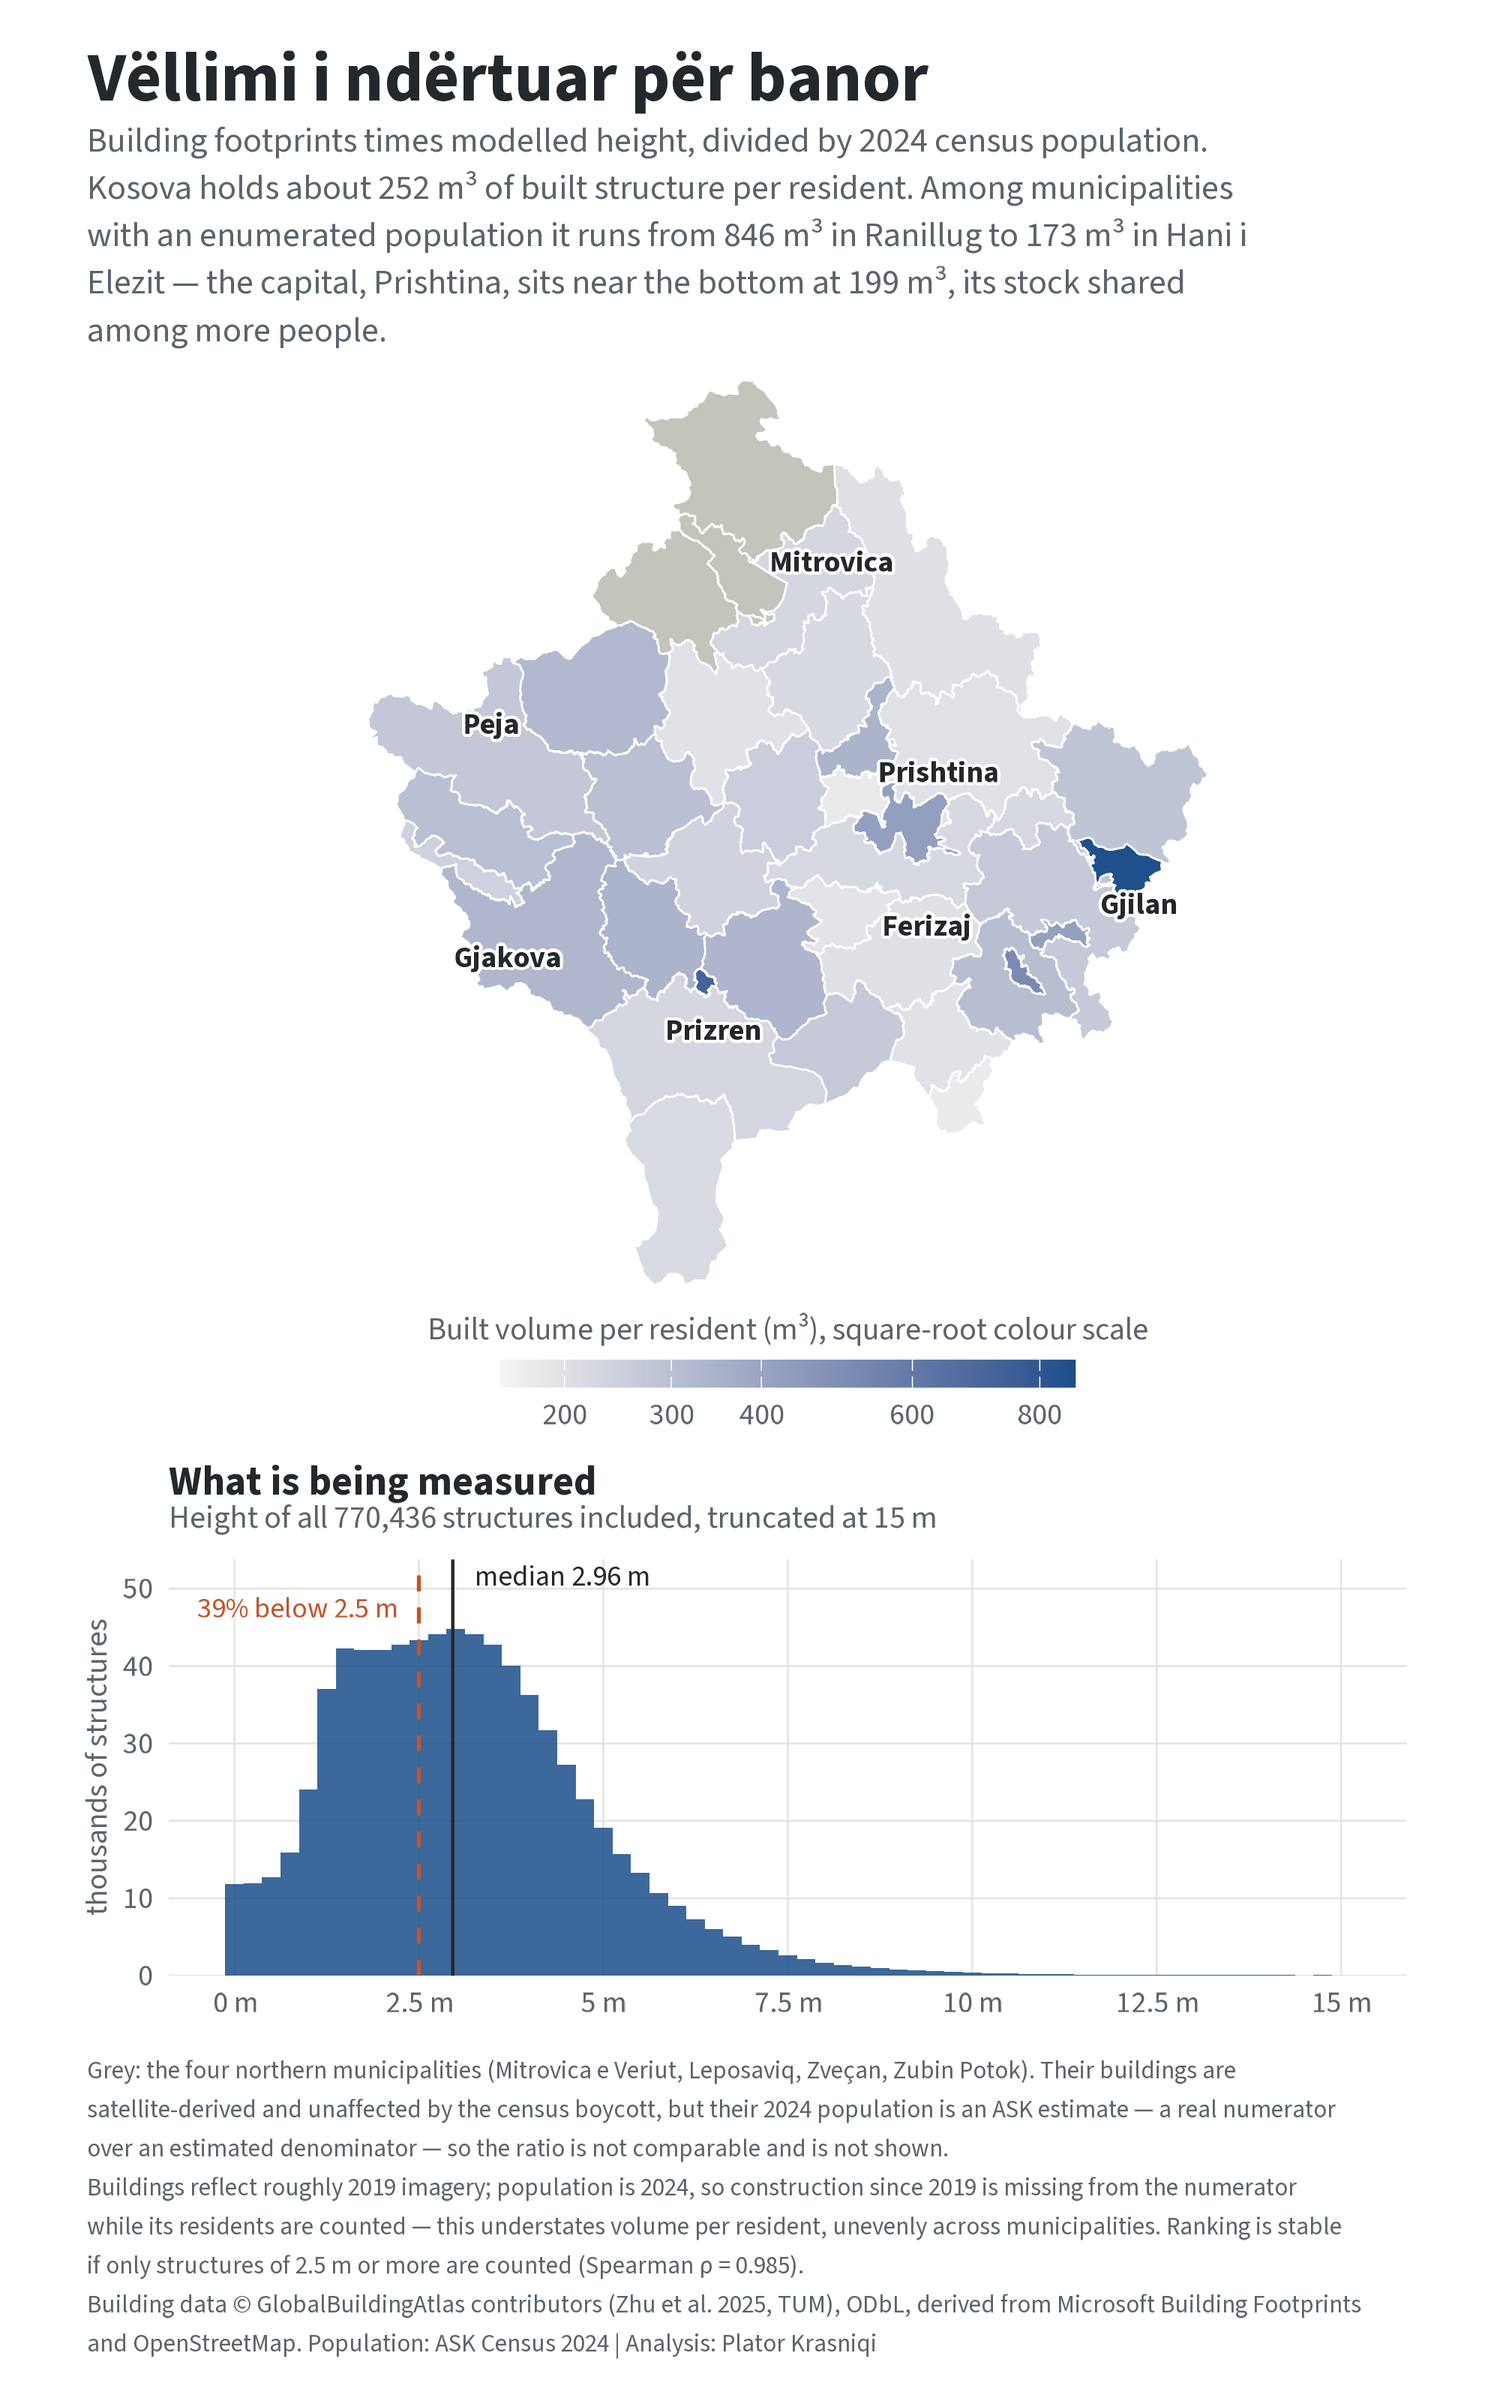
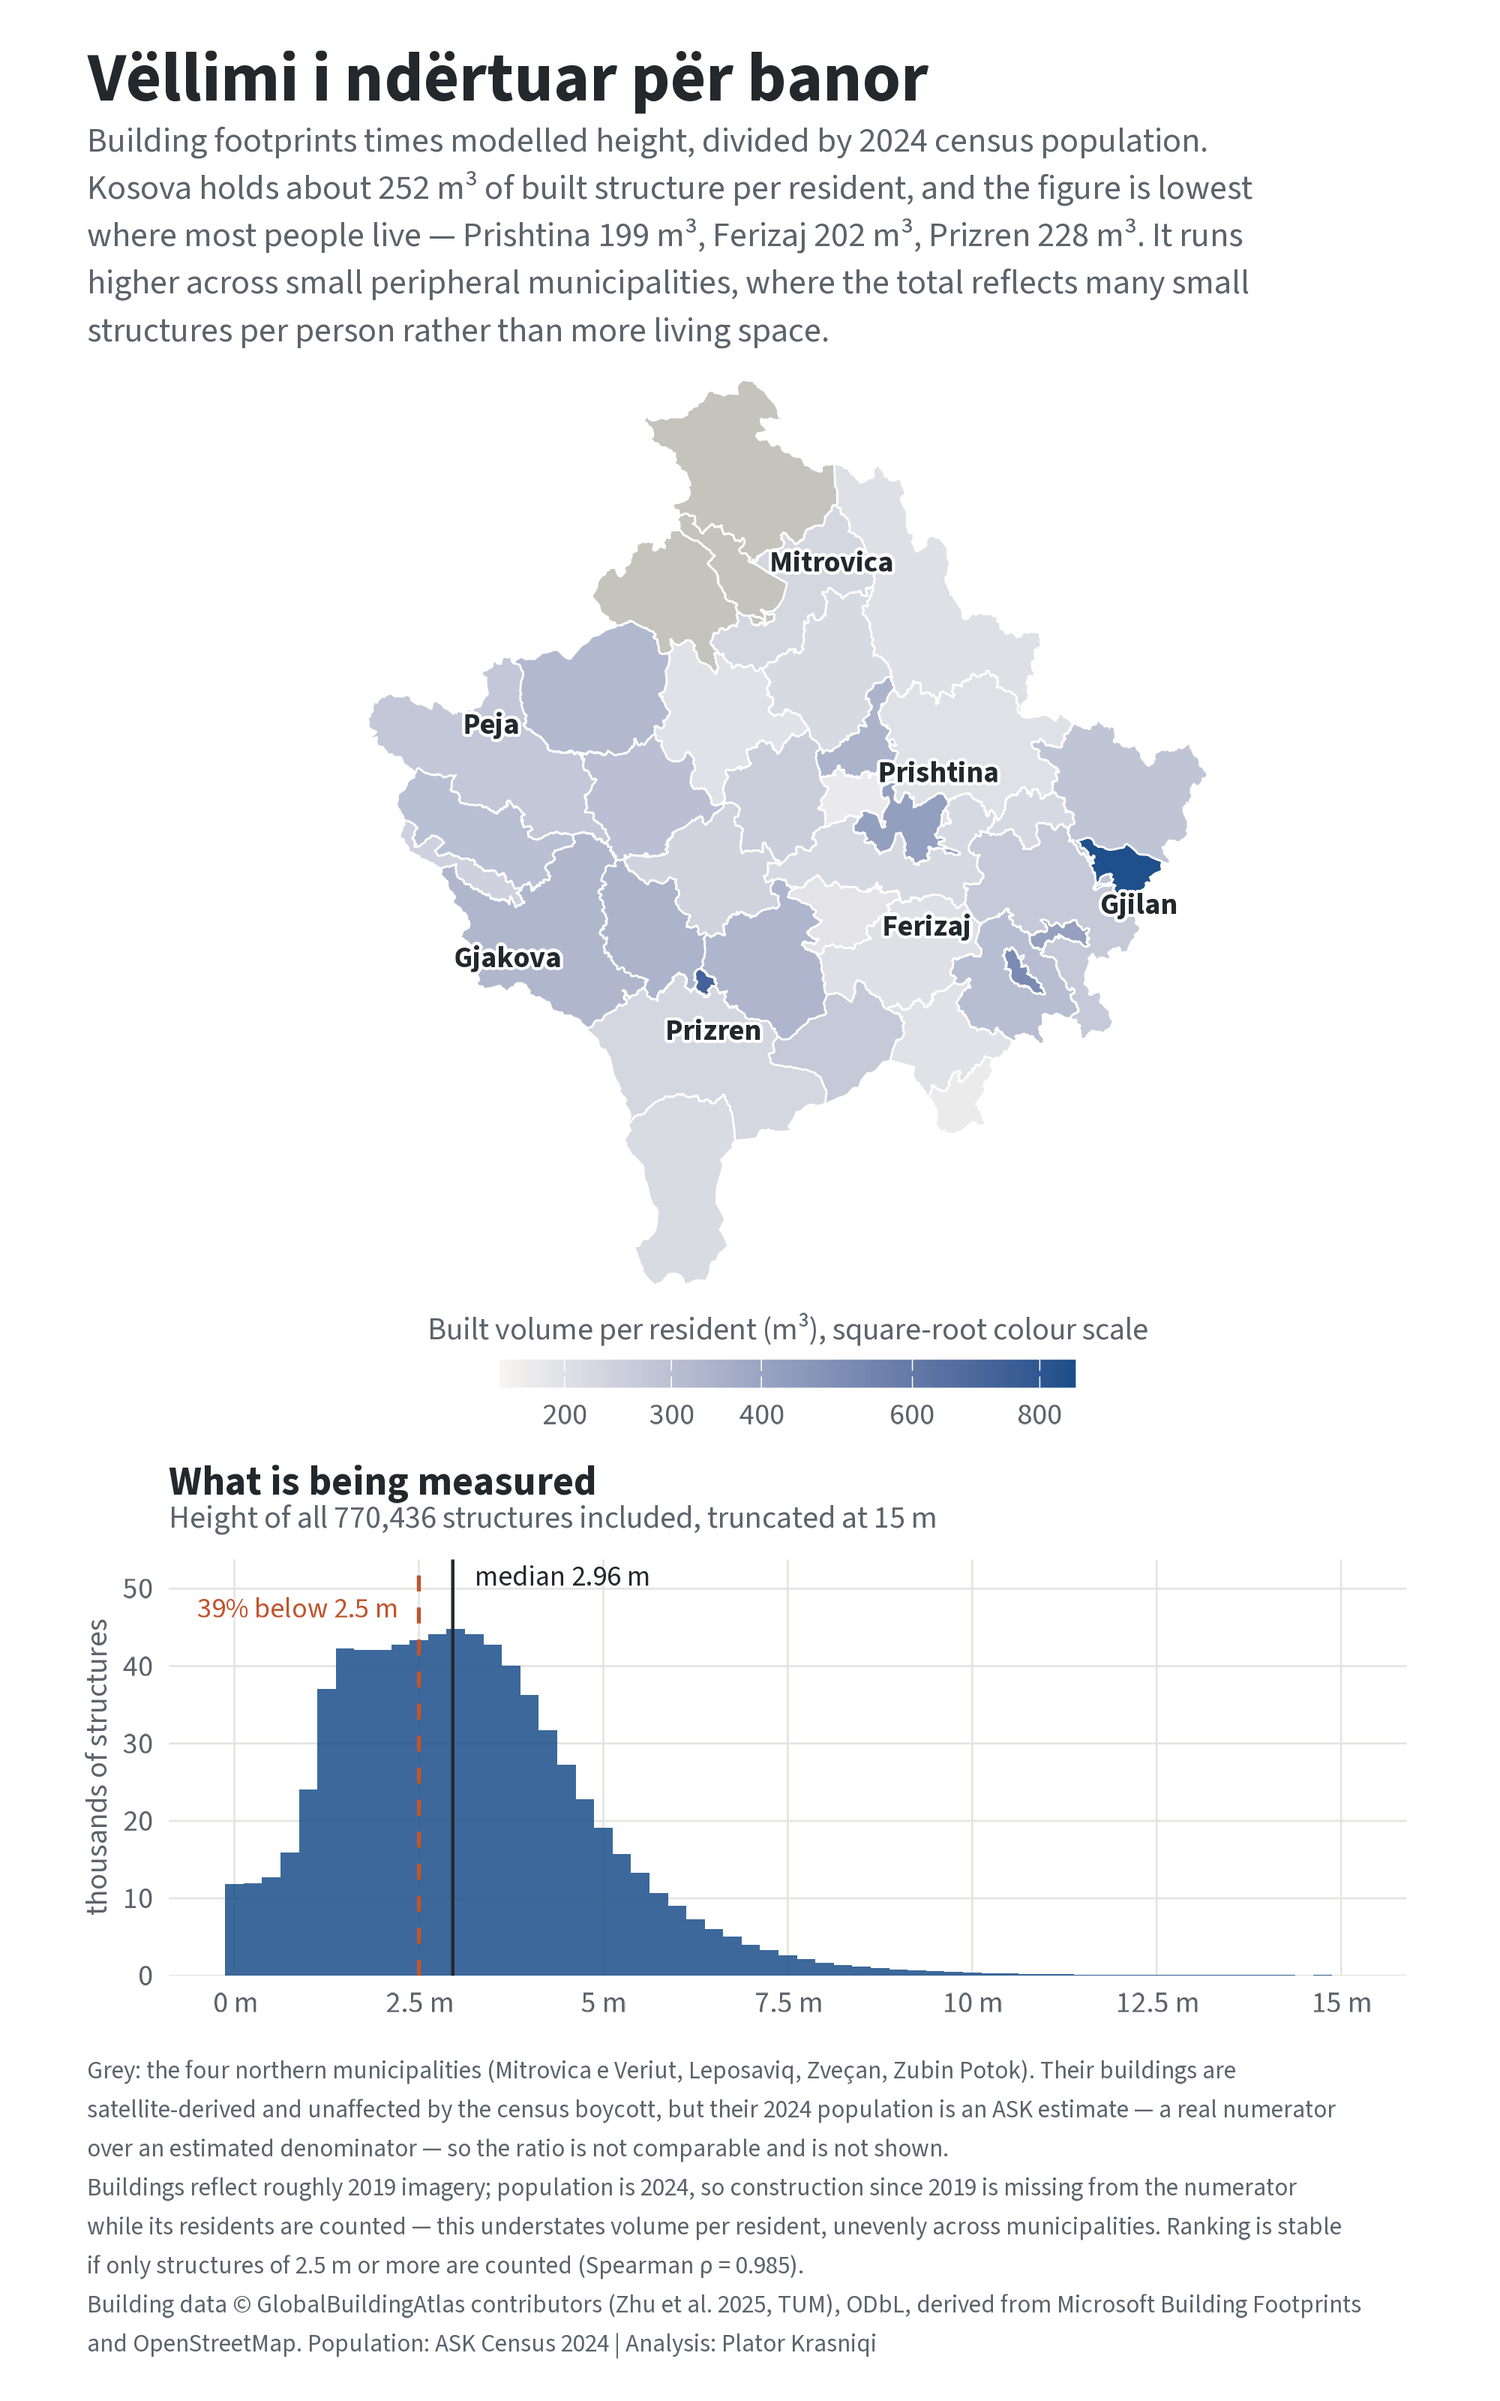
built-volume: drop the unsupported vacancy link; lead the figure on the gradient
Remove the claim that diaspora and seasonal vacancy is "the same effect
documented in the census-vacancy piece". Across the 29 municipalities common to
both pieces the relationship is not there, and this piece's own Mamushe
exception runs the other way -- lowest vacancy in that set alongside the highest
volume per resident. The bullet now ends at "will show high volume per
resident", with no census-vacancy reference and no causal clause.

Change "produce" to "give" in the small-denominator limitation: it describes
arithmetic, but the word is on the banned list and consistency is worth more
than the nuance. The "because" explaining the all-structures choice stays -- it
explains a method decision, not a causal claim.

The figure subtitle no longer leads on Ranillug's 846 m3, which rests on a
denominator of 2,481 and reflects structure counts rather than living space. It
now leads on the gradient to the urban core (Prishtina 199, Ferizaj 202, Prizren
228); the full range stays in the README. Both PNGs re-rendered and checked at
full resolution: ODbL attribution complete and untruncated, histogram
annotations clear of the bars.

Changed region(s): [[0.062, 0.0625, 0.837, 0.1562]]

diff --git a/built-volume/README.md b/built-volume/README.md
@@ -176,7 +176,7 @@ every published number can be checked without re-downloading.
   rest from an automated Microsoft extraction. Neither is a cadastre, and
   detection of small or closely-spaced structures differs between them.
 - **Small denominators are volatile.** Municipalities of roughly 10,000 residents
-  or fewer produce ratios far more sensitive to population error and to seasonal
+  or fewer give ratios far more sensitive to population error and to seasonal
   absence than large ones — a few hundred people either way moves the figure by
   much more than the same error would in Prishtina. **Ranillug (2,481 residents),
   Kllokot (3,041), Partesh (3,240) and Mamushë (5,607)** all sit at or near the
@@ -186,8 +186,7 @@ every published number can be checked without re-downloading.
   which municipality ranks highest.
 - **Population is residence, not presence.** The census counts usual residents.
   Municipalities with large diaspora or seasonal populations will show high
-  volume per resident partly because their buildings stand empty much of the
-  year — the same effect documented in the `census-vacancy` piece.
+  volume per resident.
 - **Descriptive only.** This is a ratio of two measured quantities at one point
   in time. Nothing here identifies why any municipality sits where it does.
 
